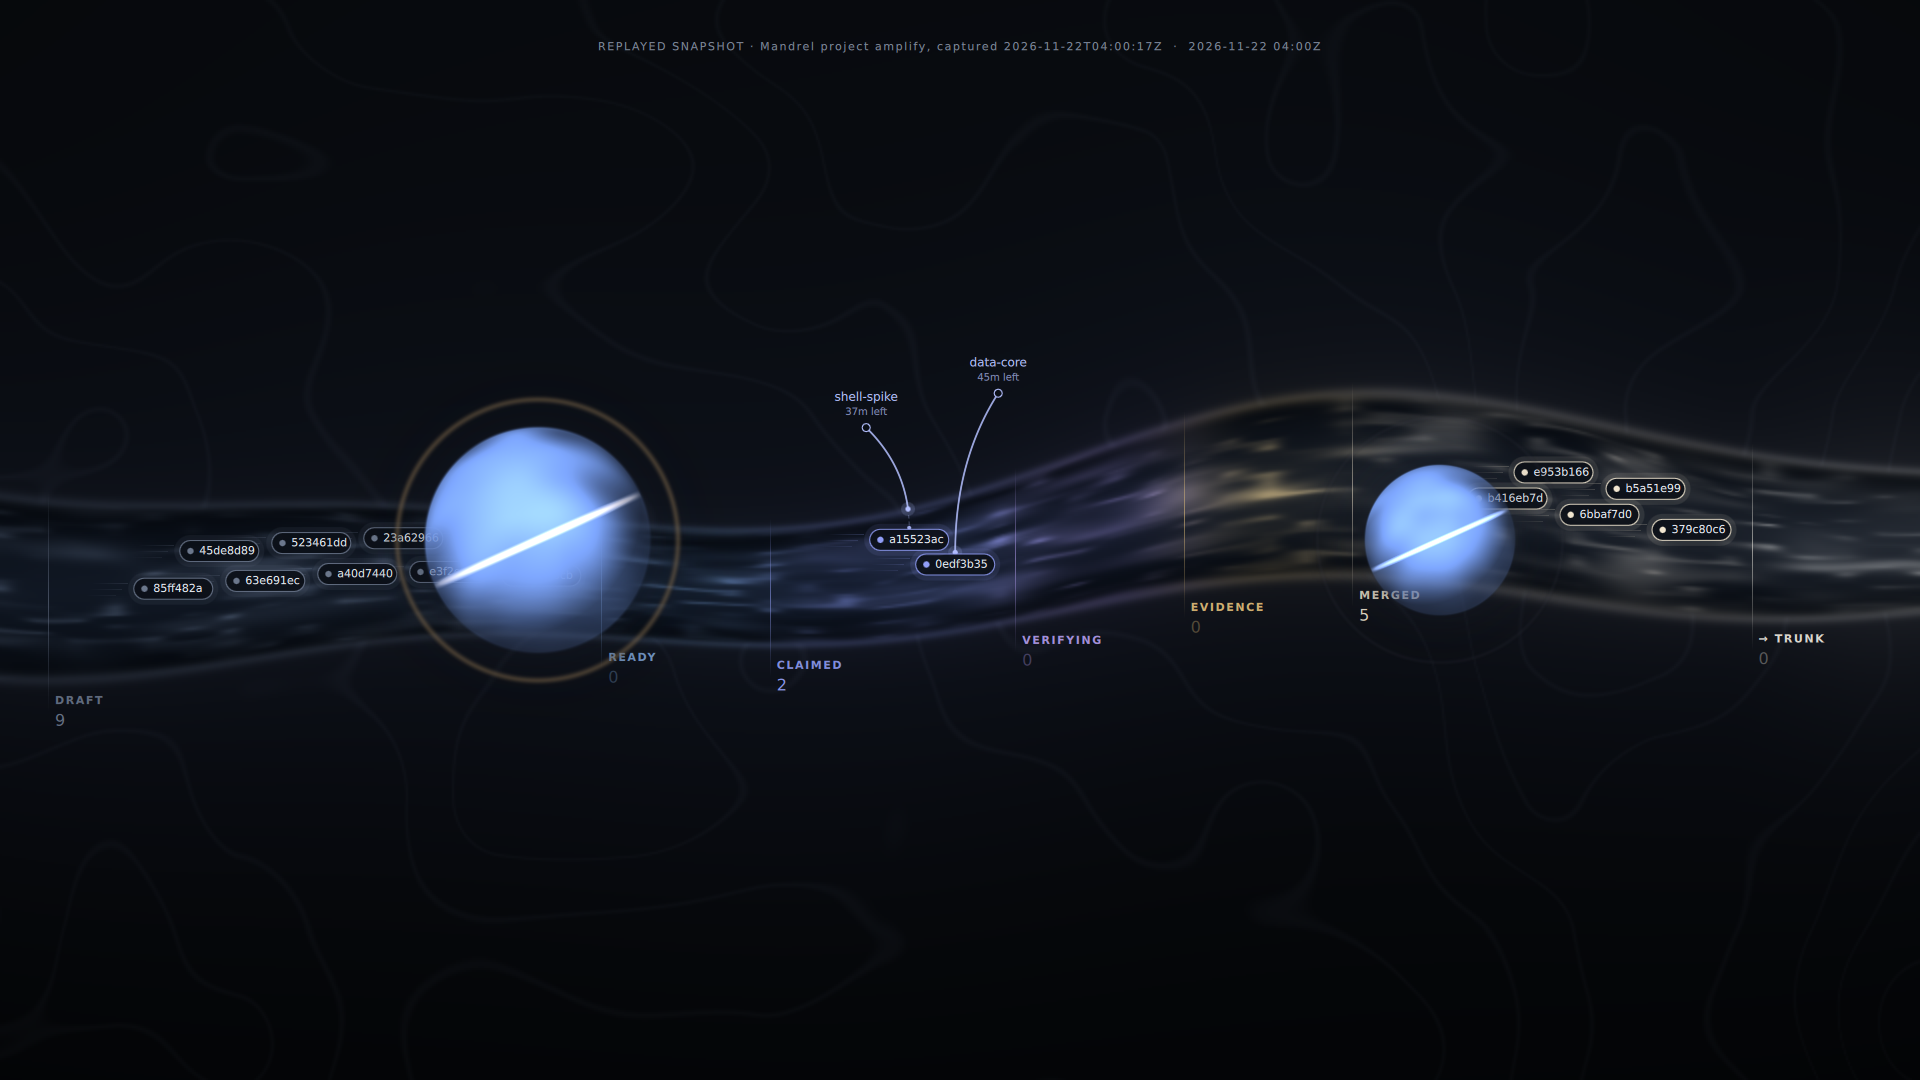
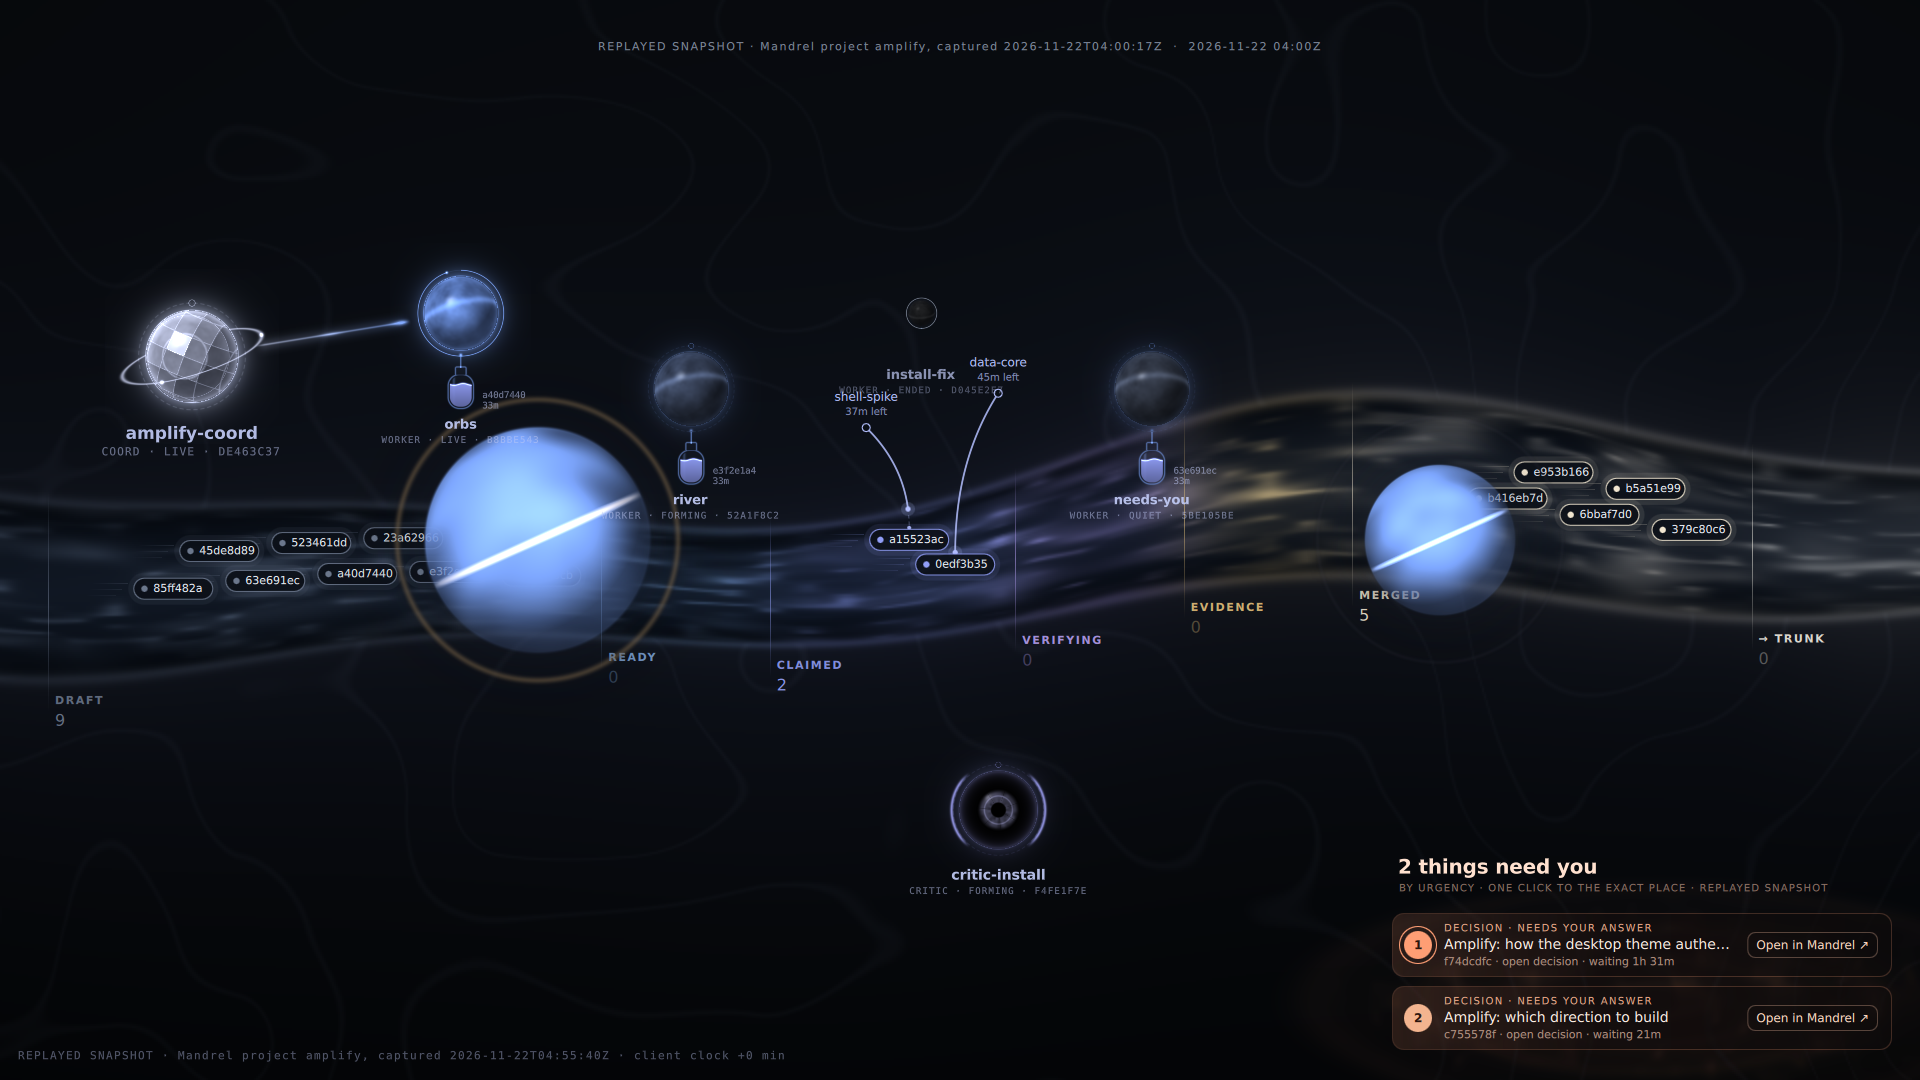
river: swirl turns on its hull, verdict effects end, motion gates and animation inventory (P1 e3f2e1a4, defect 23987f60)
Amp-Thread-ID: https://ampcode.com/threads/T-01a205ed-9be2-7296-a53e-749e1e91afa6

diff --git a/plugin/river/River.qml b/plugin/river/River.qml
@@ -78,9 +78,16 @@ Item {
         + " vessels=" + lay.vessels.length + " tethers=" + lay.tethers.length
         + " expired=" + lay.tethers.filter(function (t) { return t.expired }).map(function (t) { return t.id8 }).join(",")
         + " flow=" + lay.flow.toFixed(2) + " speed=" + speed.toFixed(1) + " at=" + new Date(feed.nowMs).toISOString())
+    // Where each blocked swirl is centred, in screen px (shot.sh checks it turns on this hull).
+    lay.vessels.forEach(function (v) {
+      if (v.eddy) console.log("amplify: river eddy " + v.id8 + " at " + Math.round(v.x * k) + "," + Math.round((cy(v.x) + v.off) * k))
+    })
   }
 
+  // A verdict effect lives for one event. Animated, it ends when its animation
+  // does (dropFx); still, it shows at p = 0.5 until the next scene step.
   function spawn(events) {
+    if (!animate) effects.clear()
     if (!lay || !events || !events.length) return
     var prev = feed.prevScene ? R.layout(feed.prevScene, feed.nowMs, dw) : null
     events.forEach(function (e) {
@@ -88,13 +95,26 @@ Item {
       var to = lay.vessels.filter(function (v) { return v.id === e.taskId })[0]
       var from = prev ? prev.vessels.filter(function (v) { return v.id === e.taskId })[0] : null
       if (!to) return
-      console.log("amplify: river fx " + e.kind + " " + e.id8 + " → " + e.to)
+      var fx = from ? from.x : to.x, fy = cy(to.x) + to.off, box
+      if (e.kind === "pass") box = [to.x - 110, fy - 110, to.x + 250, fy + 110]
+      else {
+        var ay = cy(fx) + (from ? from.off : to.off) - 16
+        var qy = Math.min(ay, fy - 18) - 70 - Math.abs(fx - to.x - 30) * 0.12
+        box = [Math.min(fx - 90, to.x - 140), qy - 15, Math.max(fx + 90, to.x + 140), fy + 72]
+      }
+      // box: the screen px the effect may draw in (shot.sh checks it goes still).
+      console.log("amplify: river fx " + e.kind + " " + e.id8 + " → " + e.to
+                  + " box=" + box.map(function (b) { return Math.round(b * k) }).join(","))
       effects.append({ uid: e.taskId + "@" + feed.serial, kind: e.kind, id8: e.id8, to: e.to,
                        px: to.x, off: to.off, fromX: from ? from.x : to.x, fromOff: from ? from.off : to.off })
     })
   }
   function dropFx(uid) {
-    for (var i = 0; i < effects.count; i++) if (effects.get(i).uid === uid) { effects.remove(i); return }
+    for (var i = 0; i < effects.count; i++) if (effects.get(i).uid === uid) {
+      console.log("amplify: river fx done " + effects.get(i).kind + " " + effects.get(i).id8)
+      effects.remove(i)
+      return
+    }
   }
 
   ListModel { id: vessels }
@@ -275,12 +295,16 @@ Item {
             }
           }
         }
-        // blocked: an eddy turning in place
+        // blocked: an eddy turning in place. The arcs are centred on the
+        // Shape's (0, 0), which sits on the hull centre; the default
+        // transformOrigin (centre of the arcs' bounding box) would make the
+        // swirl orbit off its hull, onto neighbouring vessels.
         Shape {
           visible: model.eddy
           x: hull.width / 2; y: hull.height / 2
+          transformOrigin: Item.TopLeft
           preferredRendererType: Shape.CurveRenderer
-          RotationAnimation on rotation { running: river.animate && model.eddy; from: 0; to: -360; duration: 9000; loops: Animation.Infinite }
+          RotationAnimation on rotation { running: river.animate && river.visible && model.eddy; from: 0; to: -360; duration: 9000; loops: Animation.Infinite }
           transform: Scale { yScale: 0.5 }
           ShapePath {
             strokeColor: river.alpha(model.tone, 0.55); strokeWidth: 1.4; fillColor: "transparent"
@@ -322,7 +346,9 @@ Item {
         property real p: river.animate ? 0 : 0.5
         NumberAnimation on p {
           running: river.animate; from: 0; to: 1; duration: 3200
-          onFinished: Qt.callLater(river.dropFx, model.uid)
+          // One closure per effect: Qt.callLater merges calls to the same
+          // function, so two effects ending together would drop only one.
+          onFinished: { var uid = model.uid; Qt.callLater(function () { river.dropFx(uid) }) }
         }
         readonly property real cx: model.px
         readonly property real cyv: river.cy(model.px) + model.off

diff --git a/docs/river-animations.md b/docs/river-animations.md
@@ -1,0 +1,32 @@
+# Current river: animation inventory
+
+Every moving thing under `plugin/river/` and `shaders/river*`, with the Mandrel record that drives it and when it stops. Brian's rule: nothing moves without a record. `AMPLIFY_STILL=1` (`River.animate = false`) disables every row below except the replay clock, which then only steps when `AMPLIFY_RIVER_AT` is unset. The list is complete against:
+
+```sh
+rg -n "Animation|Behavior|Timer|callLater|rotation|uniform|phase" plugin/river/*.qml plugin/river/river.js shaders/river.frag
+```
+
+(`plugin/river/mandrel.js` is a symlink to `data/mandrel.js`; its `timers.setTimeout` calls are the live SSE debounce and watchdog, which draw nothing.)
+
+| # | file:line | What moves | Record that drives it | When it stops | Pivot | Gate |
+| --- | --- | --- | --- | --- | --- | --- |
+| 1 | `plugin/river/River.qml:133` `FrameAnimation` → `phase` → `shaders/river.frag:14` `phase` uniform | Water streaks advected downstream | Tasks whose `updated_at` falls in the 15 min before the scene clock (`layout().flow`, `flowSpeed` = 90 × flow) | `speed == 0` (no task touched in 15 min), `!animate`, or `!visible`: the frame clock stops and the shader is not re-rendered | n/a (texture offset) | shot.sh `idle` (4 frames identical at flow 0), `flowing` (control), `still` |
+| 2 | `River.qml:169` `Behavior on x` (`SpringAnimation`) | Lane gates slide when lanes widen or narrow | Task count per lane (`stage`/`status` via lane mapping c1f75776) | Spring settles (`epsilon 0.2`) after each scene change | n/a (translation) | shot.sh `idle`, `still` |
+| 3 | `River.qml:201` `Behavior on vx` (`SpringAnimation`), tether | Tether's hull end follows its vessel | Task lane change between two scenes | Spring settles | n/a | shot.sh `idle`, `still` |
+| 4 | `River.qml:203` `Behavior on f` (`NumberAnimation`, `stepMs`) | Lit length of a tether shrinks | Task `claim_expires_at` and `claim_live` against the scene clock (`lease()`) | Ends after one step (`stepMs`); with a frozen clock the value does not change, so nothing runs | n/a | node `tether shows the remaining lease`, `expired claim draws a slack tether`; shot.sh `idle` |
+| 5 | `River.qml:279` `Behavior on vx` (`SpringAnimation`), vessel | Vessel sails to its new lane (hull `y` follows `vx` along the river curve) | Task lane change between two scenes | Spring settles | n/a | node lane tests; shot.sh `idle`, `still` |
+| 6 | `River.qml:307` `RotationAnimation on rotation` (9 s, `Animation.Infinite`) | Blocked swirl turns in place around its hull | Task `status: blocked` (`scene.tasks[].eddy`, lane mapping c1f75776) | When the task is no longer blocked (`model.eddy` false), `!animate`, or `!visible`. It loops for as long as the record says blocked | `transformOrigin: Item.TopLeft` (L305): the arcs are centred on the Shape's (0, 0), which sits on the hull centre | shot.sh `eddy` (swirl on 85ff482a's own hull in 6/6 frame pairs; one eddy logged); `still` |
+| 7 | `River.qml:347` `NumberAnimation on p` (3.2 s, once) | Critic PASS gold ring / REJECT eddy and upstream arc fade out | One lane change event between two scenes: `verifying` → later lane (PASS), `verifying`/`evidence` → earlier lane (REJECT) (`transitions()`) | `onFinished` (L351) → `dropFx` removes the effect and logs `fx done`. Still mode: effects show at `p = 0.5` and are cleared at the next scene step (L90) | n/a | shot.sh `fx` (both regions static by 5 s; both `fx done` lines) |
+| 8 | `River.qml:408` `rotation: -fxi.p * 140` (REJECT rings) | REJECT eddy turns while it fades | Same event as row 7 (bound to `p`) | With row 7 | Zero-size Item at the landing point, so the default origin is (0, 0), the landing point | shot.sh `fx` |
+| 9 | `plugin/river/RiverFeed.qml:67` `Timer` (1 s) | The replay clock: each tick builds the next scene from the fixture (60 virtual s per tick) and loops | The fixture's real records (`fixtures/amplify-snapshot.json`, or `AMPLIFY_RIVER_FIXTURE`) through `data/mandrel.js` `buildScene` | `AMPLIFY_RIVER_AT` freezes it (does not run); live mode will replace it with refetches | n/a | shot.sh runs all freeze it; data `replay driver` tests |
+
+No other `Animation`, `Behavior`, `FrameAnimation`, `Timer`, or shader time uniform exists in these files. `light` and `flow` in `river.frag` are per-scene values, not clocks.
+
+## Audit for the attempt-2 bug class (wrong pivot, never ends, moves without a record)
+
+- **Wrong pivot.** Row 6 was the bug (E1): fixed with `transformOrigin: Item.TopLeft`. Row 8 rotates a zero-size Item, so it already turned about its landing point. The design canvas scales about `Item.TopLeft` (L141). No other rotation or scale exists.
+- **Never ends.** Two more cases besides E2, both fixed:
+  - Two effects finishing in the same frame: `Qt.callLater(river.dropFx, uid)` merges repeated calls to the same function, so only the last effect was dropped and the other stayed in the model forever (seen in the PASS + REJECT busy fixture: only `fx done pass` was logged). Each effect now passes its own closure.
+  - Still mode never ran the effect animation, so effects were never dropped and piled up step after step while the replay clock ran. They are now cleared at each scene step.
+  - The swirl kept animating while the river was hidden. It now also stops on `!visible`, like the water clock.
+- **Moves without a record.** None found. Every row above is bound to a scene value from a record. The idle gate shows that a scene with no recent updates, no blocked task and no verdict produces identical frames.

diff --git a/plugin/river/README.md b/plugin/river/README.md
@@ -22,4 +22,4 @@ Quickshell resolves imports and URLs outside the config folder to `qrc:/qs-black
 - `AMPLIFY_RIVER_FIXTURE=<path>` replays another fixture. `test/busy-frames.json` comes from `node plugin/river/test/make-busy.mjs`: it is the real snapshot's records, staged with 9 claims (one expired), a blocked task, a PASS, and a REJECT.
 - `AMPLIFY_RIVER_AT=<ISO>` freezes the replay clock at that time, one step after the previous scene, so that step's lane changes show.
 - `AMPLIFY_STILL=1` freezes motion.
-- `HEADLESS_MESA=… plugin/river/test/shot.sh` writes `docs/shots/river-{default,busy,in-service}.png` and checks the logged lanes, tethers, verdicts and drawn verdict effects, and that an idle (flow 0) river renders identically 3 s apart while a flowing one moves.
+- `HEADLESS_MESA=… plugin/river/test/shot.sh` writes `docs/shots/river-{default,busy,in-service}.png` and runs 12 checks: logged lanes, tethers and verdicts; frame-sequence motion gates (still mode static, flow 0 static, the flowing control, the blocked swirl on its own hull in 6/6 frame pairs, verdict effects static and `fx done` within 5 s); and a runtime log with no QML errors or binding loops. Every animation is listed in `docs/river-animations.md`.
